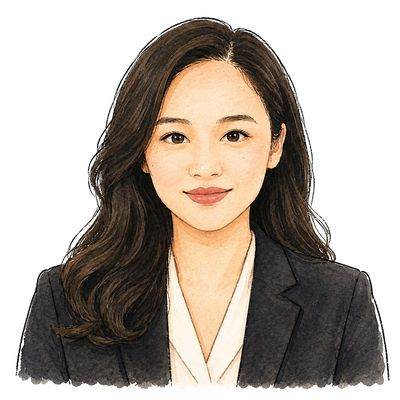
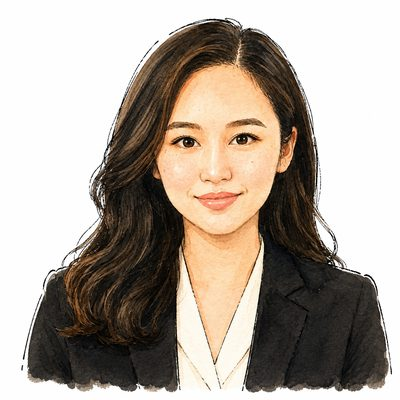
Replace Angel Rose Cervantes and Marielle Leann Batac entourage photos
New artwork verified (different hash + fresh mtime from committed version).
Optimized to 400px/~28KB to match Pictures/entourage/ convention and added
?v=2 in entourage.html to bust the 1-year immutable CDN cache.

diff --git a/entourage.html b/entourage.html
@@ -165,7 +165,7 @@
                 <p class="has-photo" style="--photo:url('/Pictures/entourage/Sherine_Kahlehlyn_DelaCruz.jpg')">Sherine Kahlehlyn Dela Cruz</p>
                 <p class="has-photo" style="--photo:url('/Pictures/entourage/Angelica_Valeros.jpg')">Angelica Valeros</p>
                 <p class="has-photo" style="--photo:url('/Pictures/entourage/Carla_Jeremy_Jardin.jpg')">Carla Jeremy Jardin</p>
-                <p class="has-photo" style="--photo:url('/Pictures/entourage/Angel_Rose_Cervantes.jpg')">Angel Rose Cervantes</p>
+                <p class="has-photo" style="--photo:url('/Pictures/entourage/Angel_Rose_Cervantes.jpg?v=2')">Angel Rose Cervantes</p>
                 <p class="has-photo" style="--photo:url('/Pictures/entourage/Meijhen_Santos.jpg')">Meijhen Santos</p>
                 <p class="has-photo" style="--photo:url('/Pictures/entourage/Zaira_Blanca_Maclit.jpg')">Zaira Blanca Maclit</p>
             </div>
@@ -215,7 +215,7 @@
                 <div class="entourage__group-icon"><svg class="icon" aria-hidden="true"><use href="img/icons.svg#icon-blossom"></use></svg></div>
                 <h3 class="entourage__group-title">Flower Ladies</h3>
                 <p class="has-photo" style="--photo:url('/Pictures/entourage/Jenalyn_Martillano.jpg')">Jenalyn Martillano</p>
-                <p class="has-photo" style="--photo:url('/Pictures/entourage/Marielle_Leann_Batac.jpg')">Marielle Leann Batac</p>
+                <p class="has-photo" style="--photo:url('/Pictures/entourage/Marielle_Leann_Batac.jpg?v=2')">Marielle Leann Batac</p>
             </div>
         </div>
 
